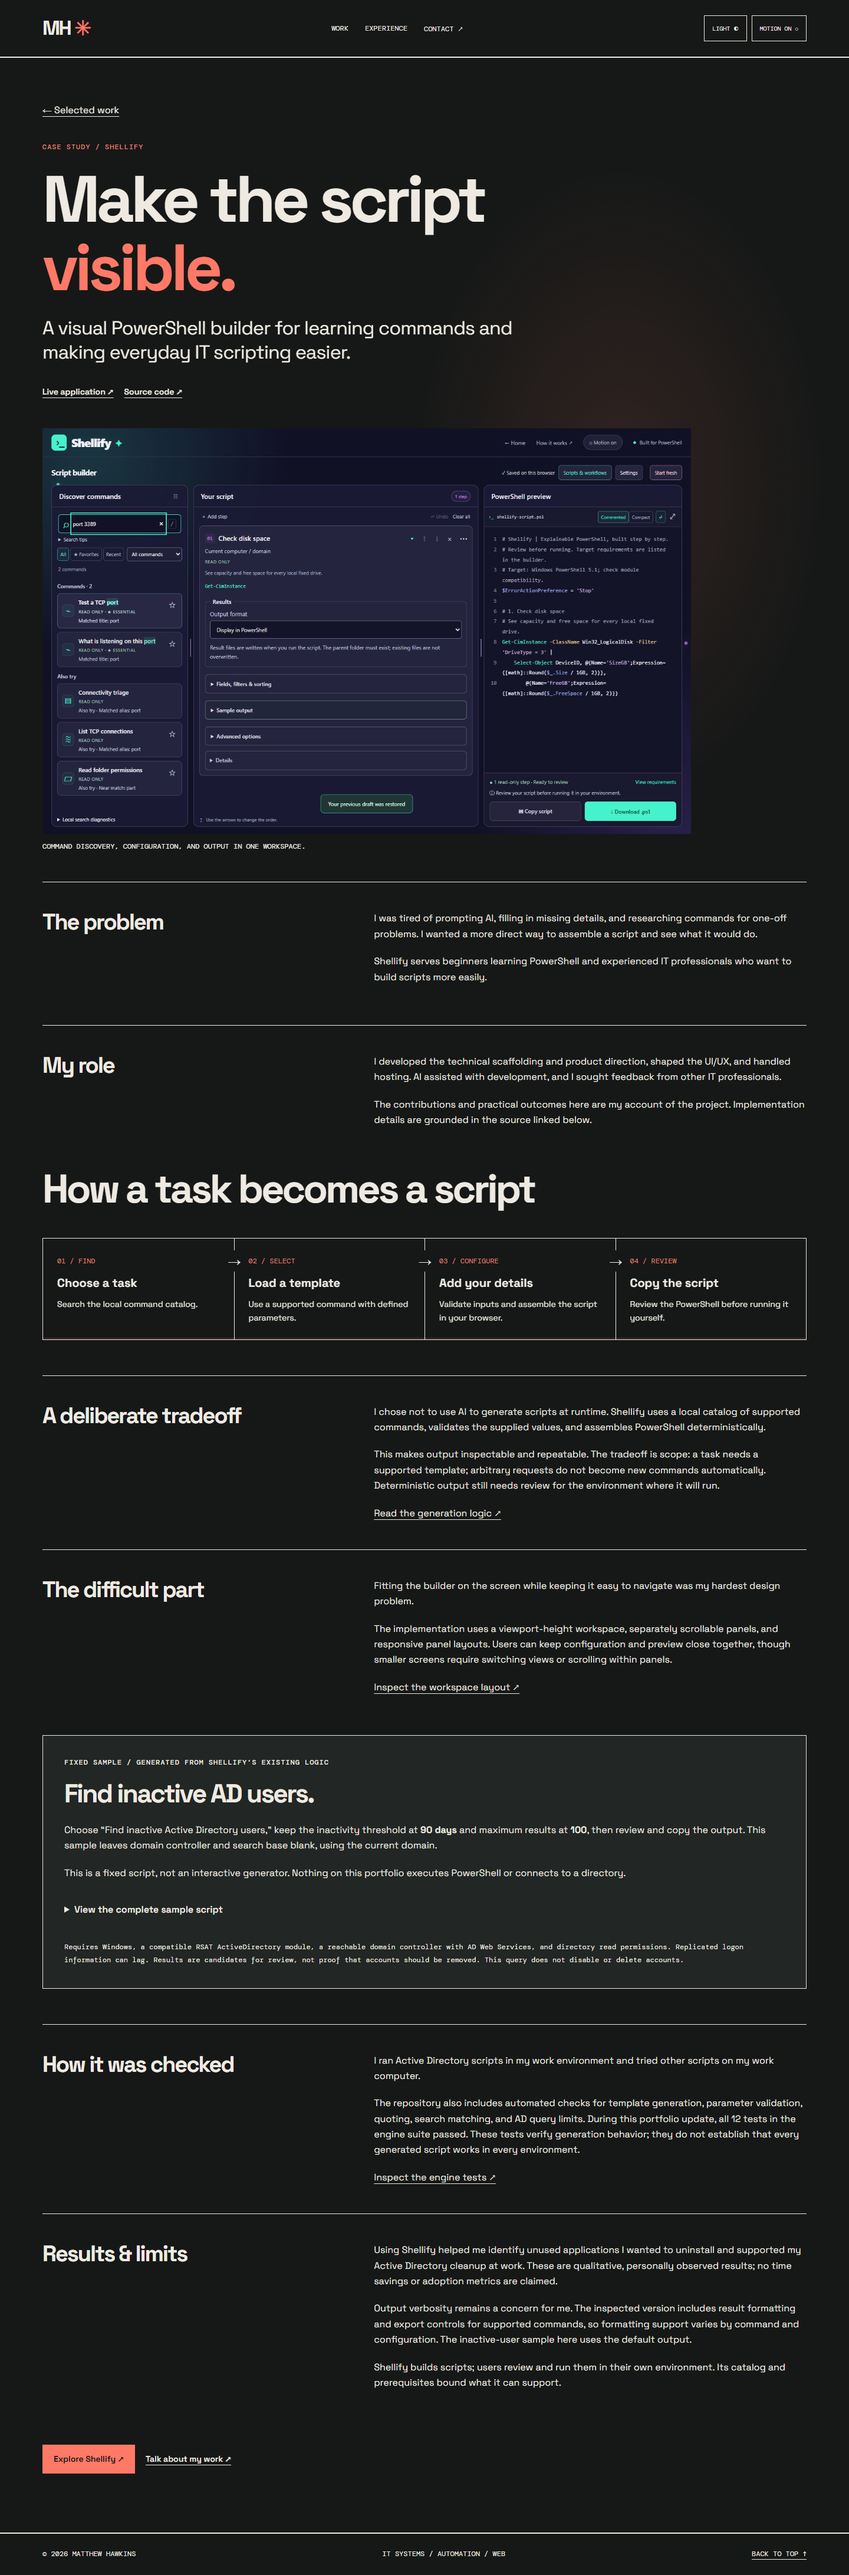
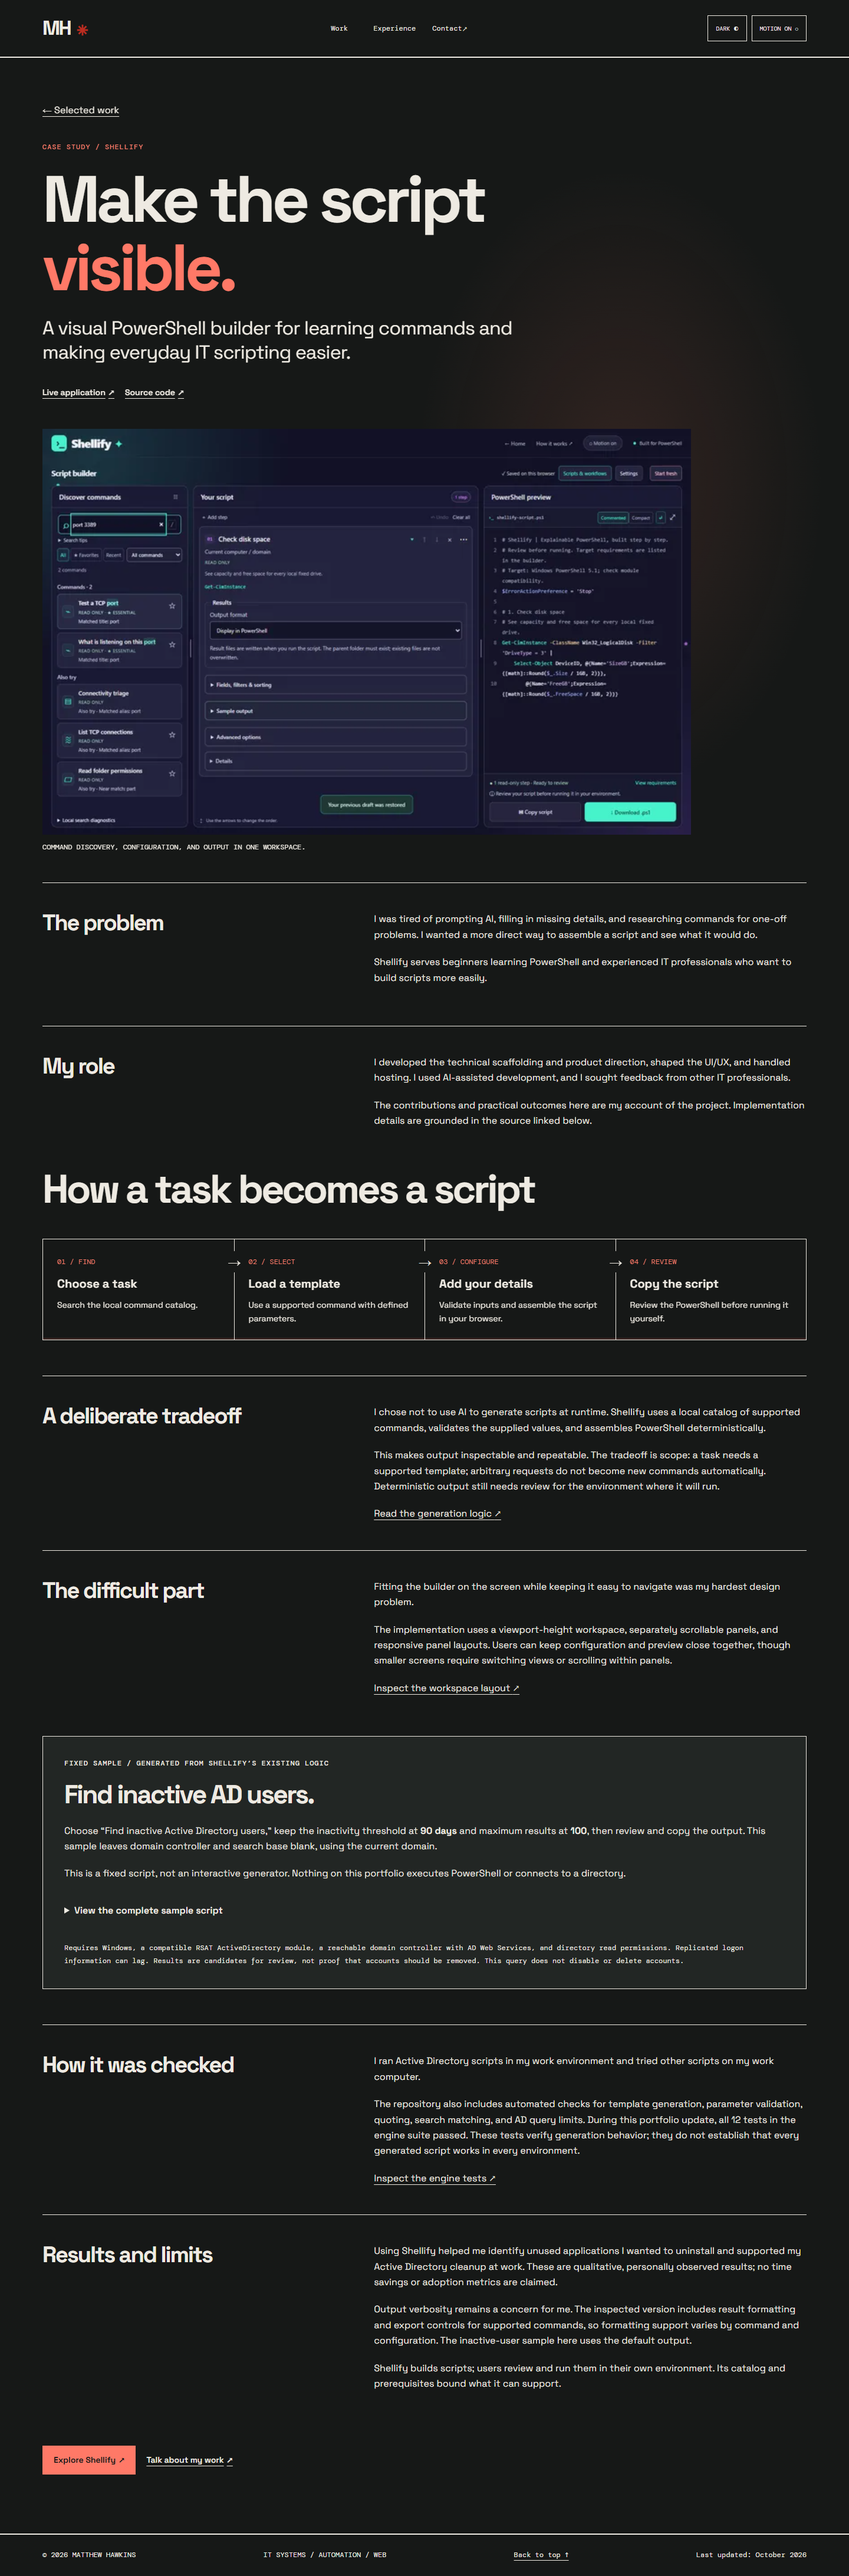
Document final checks, confirmation items, and publication follow-up

diff --git a/docs/final-polish.md b/docs/final-polish.md
@@ -1,0 +1,56 @@
+# Final portfolio polish — 19 October 2026
+
+## Changelog
+
+- Sharing: canonical URLs, Open Graph and Twitter large-image metadata, image descriptions and dimensions, Person JSON-LD, separate 1200×630 share previews, and a coordinated star favicon set. Existing Cloudflare URLs retained.
+- Credibility: résumé-first hero actions, LinkedIn access, consistent endpoint terminology and target role titles, experience expressed as “Since November 2023,” and hours shown once in contact. Dates and technical scope were checked against the supplied résumé.
+- Evidence: résumé links labeled as sources with context-specific accessible names, backup link targets the story itself, and Shellify links to its case study. Added grouped technologies from the site and résumé. Preserved the limited backup validation claim and separated CompTIA certification from TEEX training.
+- Narrative: explicit IT/build/design framing, secondary project heading, consistent AI-assisted development wording, and supported Shellify outcomes and Z-Raid iteration. Unconfirmed Promptly feedback remains a visible question.
+- Accessibility: real whitespace between paired labels, decorative arrows hidden, a decorative logo mark, names that include visible link/button labels, accessible persisted theme/motion controls, 44px nav/control/CTA tap targets, focus rings, and reduced-motion support. The logo label includes “MH” so voice-control users can match the visible initials.
+- Delivery: responsive WebP alternatives with PNG/JPG fallbacks, direct font stylesheet and preconnections, résumé PDF title metadata, dated footer, and a static 404 page. No framework, runtime dependency, analytics, DNS, or hosting changes.
+
+## Visible confirmation items
+
+These four placeholders appear on the home page:
+
+1. Did friends and family test Promptly, and what changed after their feedback?
+2. CompTIA A+ issue date and credential URL or ID; TEEX completion date and verification URL or ID, if available.
+3. Anonymous backup environment context: industry or organization size, Veeam version, and number of affected jobs. Share only context appropriate for public disclosure.
+4. What I’d add next for backups: failure alerting, a documented restore test, or another step. This is a proposed next step, not a claim that it was performed.
+
+No unverified employer scale, credential details, testing outcomes, time savings, or current personal learning activities were added. The résumé update note uses its September 2026 PDF metadata; employment dates are November 2023–May 2025 and May 2025–present as supplied.
+
+## Validation
+
+- Before-edit and after-edit captures: both pages × 375/768/1440px × light/dark × motion on/off, 24 combinations per pass, with no page overflow or runtime errors. Initial review confirmed existing CSS gaps; markup whitespace was added without redesigning those rows.
+- Extra HTTP checks at 320px in both themes: local pages and anchors, image alternatives, alt text and dimensions, metadata, 44px nav/control/CTA targets, preference persistence, system reduced motion, and stopped pseudo-element animations.
+- Axe: no violations for WCAG 2 A/AA, 2.1 AA, and 2.2 AA tags on both pages in light/dark; explicit visible-label/name rule also passes. Automated checks do not replace a full manual accessibility audit. Both themes use the original ink/paper and red palette; automated contrast checks passed.
+- Existing browser suite passed keyboard skip links, theme switching, system reduced motion, clipboard success and denial fallback, PDF signature, and no-JavaScript script access.
+- Mobile Lighthouse on local HTTP, simulated mobile defaults: home 93 performance / 100 accessibility / 100 best practices / 100 SEO; Shellify 95 / 100 / 100 / 100. Initial home performance was 84; responsive portrait sizes and removing the CSS font-import chain improved it. Scores describe the tested local runs, not deployed hosting. The subsequent logo-only label change passed the explicit accessibility rule.
+- Public projects, repositories, and linked Shellify source files returned HTTP 200. LinkedIn returned its automated-access block (999); check the profile interactively.
+- `node --check script.js` and `git diff --check` passed. PDF page count and extracted text match the original after title/author metadata changes. No visible résumé content was rewritten.
+
+The editorial composition, portrait, palette, and typeface remain intact. The primary visual repair was to put résumé access first and keep both section labels available on small screens. Confirmation notes are intentionally visible review content and should be resolved before a job-application release.
+
+## Changed files
+
+- `index.html`, `shellify.html`: metadata, copy, semantics, links, responsive images, font loading, confirmation items.
+- `style.css`, `script.js`: responsive spacing, target sizes, logo rendering, preference labels, image-hover selectors.
+- `Resources/Matthew_Hawkins_Resume.pdf`: document metadata only.
+- `Favicon/*`: star icon set and decorative mark; existing manifest paths preserved.
+- `images/*-share.png`, `images/*.webp`: share previews and responsive alternatives; original content imagery retained.
+- `404.html`: recovery page; deployed 404 routing needs verification.
+- `tools/build-assets.cjs`, `tools/audit-matrix.cjs`, `tools/verify-polish.cjs`, `tools/check-lighthouse.cjs`: reproducible asset generation and QA. Use existing runtime packages through `PORTFOLIO_DEPS`, `PLAYWRIGHT_MODULE`, `AXE_MODULE`, and `LIGHTHOUSE_MODULE`; no project package manifest or new dependencies.
+- `docs/screenshots/review-*`: refreshed review captures.
+- `README.md`, `docs/content-evidence.md`, this file: current verification and handoff notes.
+
+Temporary QA output is under ignored `tmp/`. Existing untracked brief and WIP screenshots were left outside commits.
+
+## Deployment and personal follow-up
+
+No push or deployment was performed. The checkout has no deployment configuration, and visible factual questions remain. When publishing, include only public pages, styles/scripts, image/favicon assets, manifest, and the authorized résumé. Exclude internal briefs, docs, tools, and `tmp/`.
+
+- Resolve the four visible confirmation items, then publish through the existing Cloudflare Workers setup. Verify its custom 404 routing and consider appropriate asset caching/compression; local Python HTTP does not model Cloudflare caching.
+- After deployment, run the home and case-study URLs through [LinkedIn Post Inspector](https://www.linkedin.com/post-inspector/). Confirm image, title, description, and crawler access. This cannot verify local files.
+- Consider a custom domain and contact address on that domain. Choose and register them yourself; update canonical, social, and JSON-LD URLs if adopted.
+- Review Shellify, Z-Raid, and Promptly READMEs for a screenshot, purpose, run instructions, personal contribution/AI assistance, and known limits. No external repositories were edited.

diff --git a/docs/content-evidence.md b/docs/content-evidence.md
@@ -1,12 +1,12 @@
 # Content evidence and open items
 
-Reviewed 15 October 2026. Changes remain local; no deployment.
+Originally reviewed 15 October 2026; updated 19 October 2026. Changes remain local; no deployment. See [final polish](final-polish.md) for current checks and outstanding confirmation items.
 
 ## Personal facts
 
 The supplied brief and résumé support target roles, 300+ endpoint scope, responsibilities, CompTIA A+, and PER-371 training. Training is not labeled as a certification. Matthew clarified 2+ years of professional IT work plus additional personal experience, and confirmed Monday–Friday, 8am–5pm Central for both work and recruiter contact.
 
-The PDF is unchanged and explicitly authorized for publication, including its existing contact and employer details. The backup story itself omits employer, customer, and system identifiers. Motivation, contributions, manual testing, and qualitative outcomes come from Matthew’s notes; source code cannot establish these facts.
+The PDF is explicitly authorized for publication, including its existing contact and employer details. Its title and author metadata were updated; its page count and extracted page text are unchanged. The backup story itself omits employer, customer, and system identifiers. Motivation, contributions, manual testing, and qualitative outcomes come from Matthew’s notes; source code cannot establish these facts.
 
 ## Implementation evidence
 

diff --git a/README.md b/README.md
@@ -18,6 +18,6 @@ No PowerShell runs from this portfolio. The fixed sample contains default parame
 
 Run `node --check script.js`. For browser QA, set `PLAYWRIGHT_MODULE` to an installed Playwright module path, or install `@playwright/test` locally, then run `node tools/check-browser.cjs` from this directory. It uses Edge and file URLs, and saves screenshots under `docs/screenshots`.
 
-See [content evidence and open items](docs/content-evidence.md) for sources, missing content, and verification limits. Nothing was deployed.
+See [content evidence and open items](docs/content-evidence.md) for sources and [the final polish changelog](docs/final-polish.md) for changes, confirmation items, validation, and deployment follow-up. Changes are committed locally; nothing was deployed.
 
 For future publication, serve only the public HTML, CSS, JavaScript, images, favicon assets, manifest, and authorized résumé. Exclude the supplied brief, internal documentation, research files, and tools.
